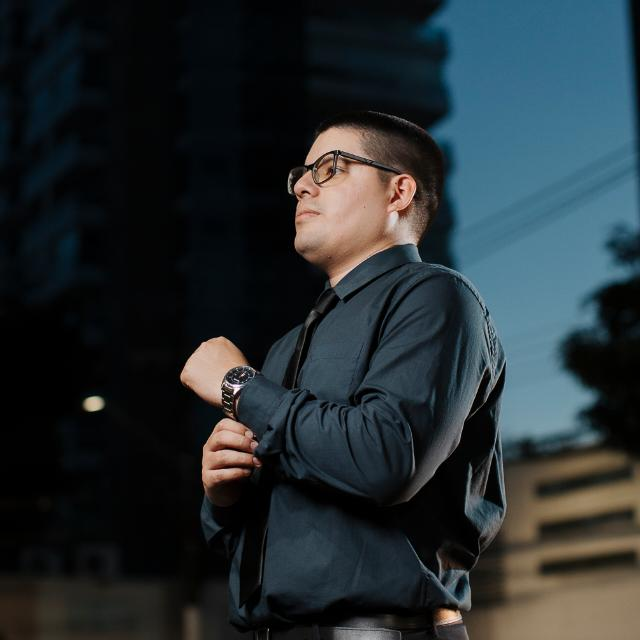
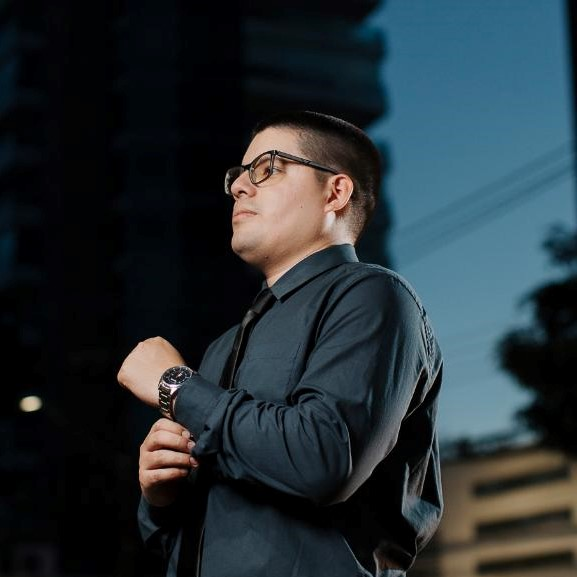
novas imagens da equipe

diff --git a/index.html b/index.html
@@ -1017,7 +1017,7 @@
             <div class="team-grid">
                 <div class="team-member">
                     <div class="member-img">
-                        <img src="#" alt="Dr. Manoel Pedro">
+                        <img src="./imagens/Manoel Pedro.jpeg" alt="Dr. Manoel Pedro">
                     </div>
                     <div class="member-info">
                         <h3>Dr. Manoel Pedro de Carvalho</h3>
@@ -1031,7 +1031,7 @@
                 </div>
                 <div class="team-member">
                     <div class="member-img">
-                        <img src="#" alt="Dr. Pedro Carvalho">
+                        <img src="./imagens/Pedro.jpeg" alt="Dr. Pedro Carvalho">
                     </div>
                     <div class="member-info">
                         <h3>Dr. Pedro Igor Frota de Carvalho</h3>
@@ -1059,7 +1059,7 @@
                 </div>
                 <div class="team-member">
                     <div class="member-img">
-                        <img src="#" alt="Dr. Bernado Neto">
+                        <img src="./imagens/Bernardo.jpeg" alt="Dr. Bernado Neto">
                     </div>
                     <div class="member-info">
                         <h3>Dr. Bernado Rodrigues de Carvalho Neto</h3>
